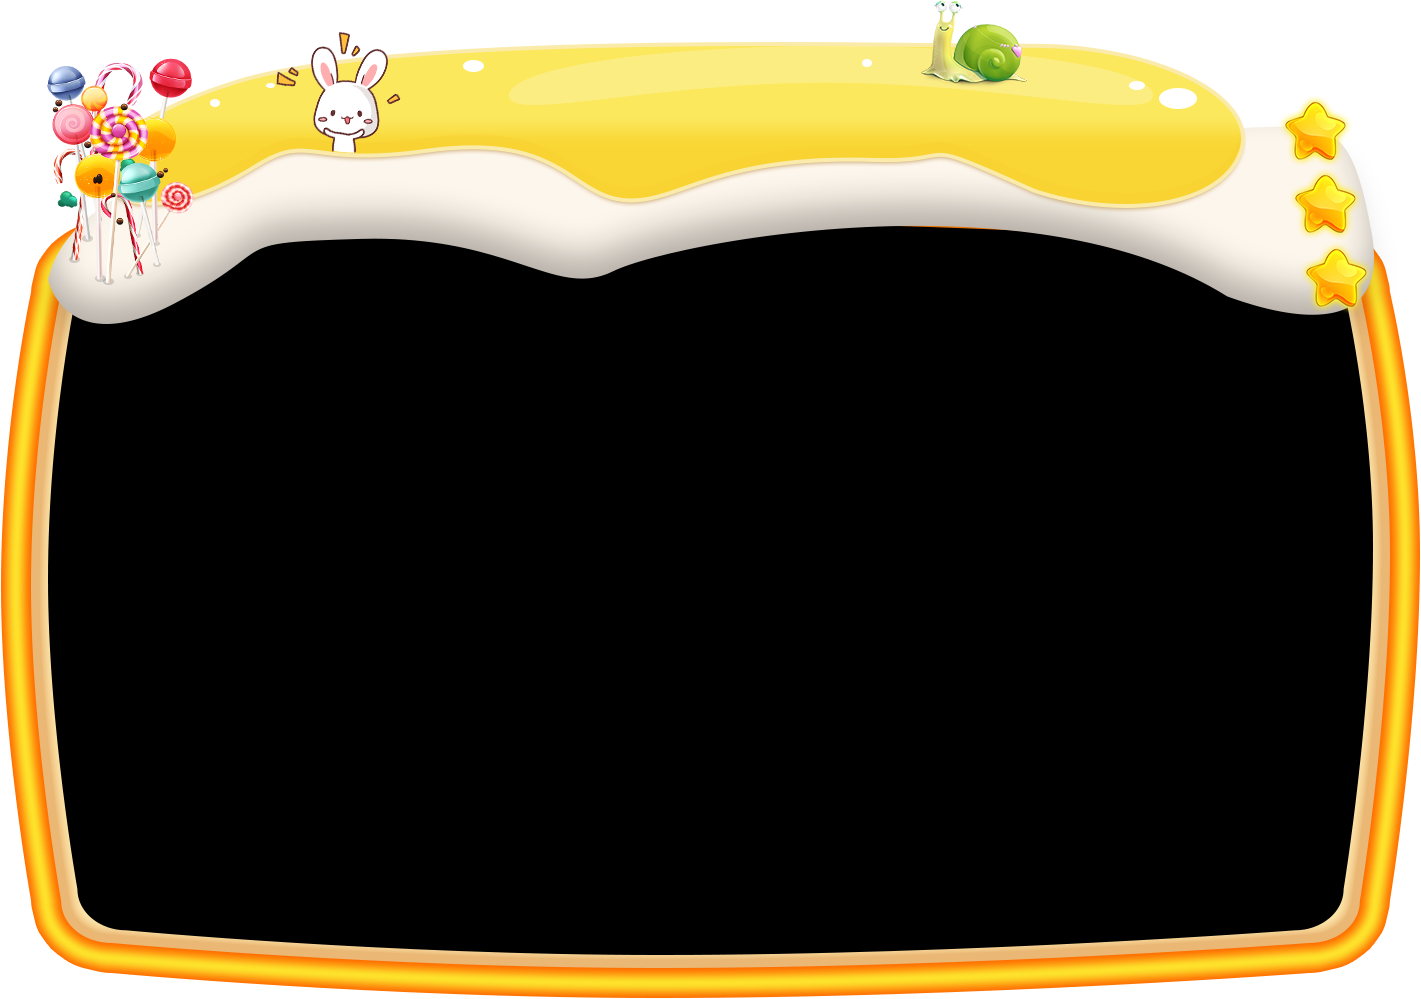
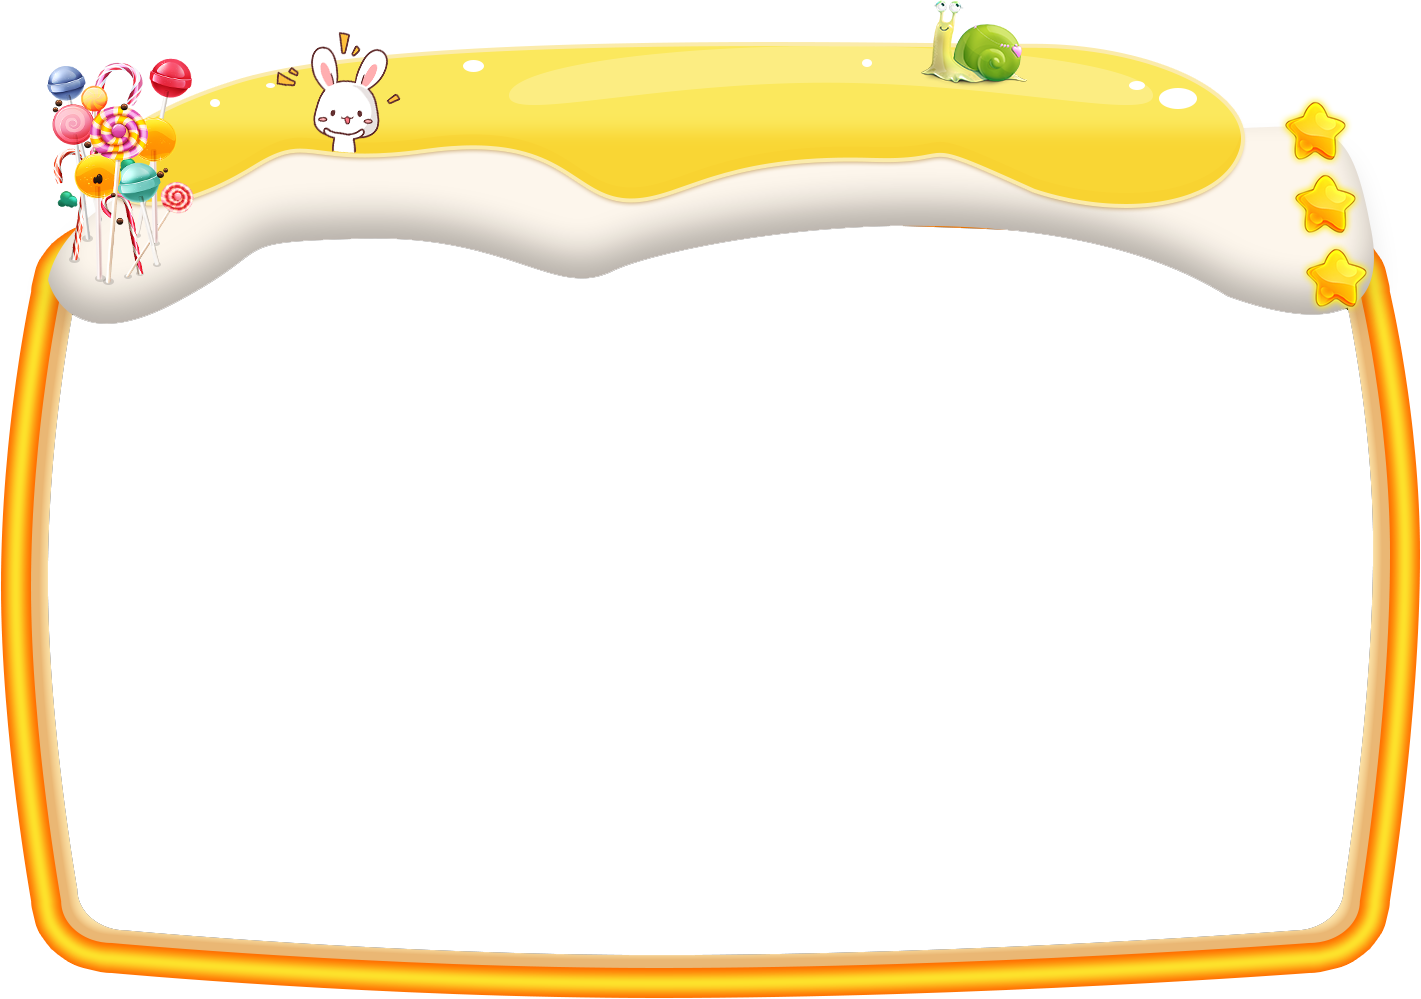
视屏播放

diff --git a/src/components/WarpVideo.vue b/src/components/WarpVideo.vue
@@ -1,0 +1,101 @@
+<template>
+  <div class="custom-warp-div">
+    <img class="custom-video-warp" src="~@/assets/img/play/video-warp.png" />
+    <div class="video-div">
+      <video
+        class="video"
+        controls
+        src="https://www.w3school.com.cn/i/movie.ogg"
+      ></video>
+    </div>
+  </div>
+</template>
+
+<script>
+export default {
+  data() {
+    return {};
+  },
+  created() {
+    let { url } = this.$route.query.url;
+  },
+};
+</script>
+
+<style lang="less" scoped>
+.custom-warp-div {
+  width: 100%;
+
+  margin: 0 auto;
+  position: relative;
+
+  // pc
+  @media screen and (min-width: 801px) {
+    .custom-video-warp {
+      width: 100%;
+      position: relative;
+      z-index: 2;
+    }
+    .video-div {
+      background: pink;
+      position: absolute;
+      left: 1.5%;
+      right: 2%;
+      top: 22%;
+      bottom: 3%;
+      border-radius: 23% 22% 16% 16%;
+
+      overflow: hidden;
+    }
+  }
+
+  // 横屏
+  @media screen and (max-width: 800px) and (min-width: 500px) {
+    .custom-video-warp {
+      width: 100%;
+      position: relative;
+      z-index: 2;
+    }
+    .video-div {
+      background: pink;
+      position: absolute;
+      left: 1.5%;
+      right: 1.5%;
+      top: 18%;
+      bottom: 11%;
+      border-radius: 23% 33% 22% 21%;
+
+      overflow: hidden;
+    }
+  }
+
+  // 竖屏
+  @media screen and (max-width: 499px) and (min-width: 200px) {
+    .custom-video-warp {
+      width: 100%;
+      position: relative;
+      //   top: 40%;
+      margin-top: -71%;
+      z-index: 2;
+    }
+    .video-div {
+    //   background: pink;
+      position: absolute;
+      left: 1.5%;
+      right: 1.5%;
+      top: 11%;
+      bottom: 52%;
+      border-radius: 31% 26% 18% 18%;
+      z-index: 1;
+
+      overflow: hidden;
+    }
+  }
+
+  .video {
+    width: 100%;
+    border: none;
+    // object-fit: fill;
+  }
+}
+</style>

diff --git a/src/components/VideoPlay.vue b/src/components/VideoPlay.vue
@@ -1,27 +1,86 @@
 <template>
   <div class="bg-img-warp video-play">
-      <img src="~@/assets/img/play/video-warp.png" />
+    <img
+      class="btn-img play-btn"
+      src="~@/assets/img/play/play.png"
+      alt=""
+      srcset=""
+    />
+    <div class="custom-warp">
+      <warp-video />
+    </div>
+    <img
+      class="btn-img left-btn"
+      src="~@/assets/img/play/left.png"
+      alt=""
+      srcset=""
+    />
+    <img
+      class="btn-img right-btn"
+      src="~@/assets/img/play/right.png"
+      alt=""
+      srcset=""
+    />
   </div>
 </template>
 
 <script>
+import WarpVideo from "./WarpVideo";
+
 export default {
-    data() {
-        return {
-
-        }
-    },
-    created() {
-        let { url } = this.$route.query.url
-    }
-
-}
+  components: {
+    WarpVideo,
+  },
+  data() {
+    return {};
+  },
+  created() {
+    let { url } = this.$route.query.url;
+  },
+};
 </script>
 
 <style lang="less" scoped>
-.video-play{
-    width: 100%;
-    height: 100vh;
-    background: url("~@/assets/img/play/beijing.png") no-repeat;
+.video-play {
+  width: 100%;
+  height: 100vh;
+  background: url("~@/assets/img/play/beijing.png") no-repeat;
+  line-height: 100vh;
+  position: relative;
+
+  .btn-img {
+    position: absolute;
+    width: 120px;
+  }
+
+  .play-btn {
+    top: 2%;
+    right: 2%;
+  }
+  .left-btn {
+    left: 5%;
+    bottom: 3%;
+  }
+
+  .right-btn {
+    right: 5%;
+    bottom: 3%;
+  }
+
+  @media screen and (max-width: 800px) {
+    .custom-warp {
+      width: 65%;
+      margin: 0 auto;
+      position: relative;
+    }
+  }
+
+  @media screen and (min-width: 801px) {
+    .custom-warp {
+      width: 65%;
+      margin: 0 auto;
+      position: relative;
+    }
+  }
 }
 </style>

diff --git a/postcss.config.js b/postcss.config.js
@@ -1,11 +1,12 @@
 module.exports = {
     plugins: {
       'autoprefixer': {
-        browsers: ['Android >= 4.0', 'iOS >= 7']
+        browsers: ['Android >= 4.0', 'iOS >= 7', "Chrome > 31", "ff > 31", "ie >= 8"]
       },
       'postcss-pxtorem': {
         rootValue: 37.5,//结果为：设计稿元素尺寸/16，比如元素宽320px,最终页面会换算成 20rem
-        propList: ['*']
+        propList: ['*'],
+        grid: true
       }
     }
   }
